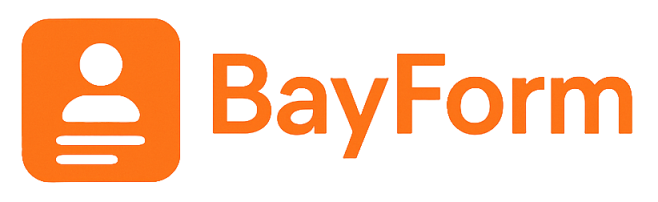
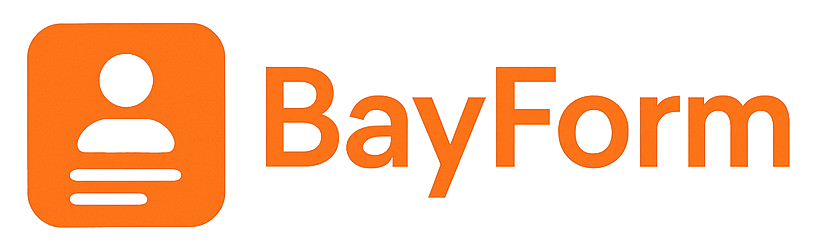
fixed auto scroll to bottom when previewing and fixed build issues

diff --git a/src/app/page.tsx b/src/app/page.tsx
@@ -1,6 +1,7 @@
 'use client';
 
 import { useState, useEffect } from 'react';
+import Image from 'next/image';
 import { ResumeData, TemplateType } from '@/types/resume';
 import { getResumes, saveResume, deleteResume } from '@/utils/storage';
 import { generatePDF, generateSimplePDF } from '@/utils/pdfGenerator';
@@ -17,23 +18,26 @@ export default function Home() {
   useEffect(() => {
     setResumes(getResumes());
   }, []);
-
   const handleSaveResume = (resume: ResumeData) => {
     saveResume(resume);
     setResumes(getResumes());
     setCurrentView('list');
     setSelectedResume(null);
+    // Scroll to top when returning to list
+    window.scrollTo({ top: 0, behavior: 'smooth' });
   };
-
   const handleEditResume = (resume: ResumeData) => {
     setSelectedResume(resume);
     setCurrentView('edit');
+    // Scroll to top when switching to edit
+    window.scrollTo({ top: 0, behavior: 'smooth' });
   };
-
   const handlePreviewResume = (resume: ResumeData) => {
     setSelectedResume(resume);
     setSelectedTemplate(resume.template);
     setCurrentView('preview');
+    // Scroll to top when switching to preview
+    window.scrollTo({ top: 0, behavior: 'smooth' });
   };
 
   const handleDeleteResume = (id: string) => {
@@ -96,9 +100,11 @@ export default function Home() {
           <div className="bg-white border-b border-slate-200 sticky top-0 z-50 shadow-sm no-print">
             <div className="max-w-7xl mx-auto px-4 py-4">
               <div className="flex flex-col lg:flex-row justify-between items-start lg:items-center gap-4">
-                <div className="flex items-center space-x-6">
-                  <button
-                    onClick={() => setCurrentView('list')}
+                <div className="flex items-center space-x-6">                  <button
+                    onClick={() => {
+                      setCurrentView('list');
+                      window.scrollTo({ top: 0, behavior: 'smooth' });
+                    }}
                     className="flex items-center text-orange-500 hover:text-orange-600 font-semibold transition-colors group"
                   >
                     <svg className="w-5 h-5 mr-2 group-hover:-translate-x-1 transition-transform" fill="none" stroke="currentColor" viewBox="0 0 24 24">
@@ -176,8 +182,7 @@ export default function Home() {
                     <span className="text-sm text-slate-600 font-medium">Resume Preview</span>
                   </div>
                 </div>
-              </div>
-              <div className="bg-white">
+              </div>              <div className="bg-white" id="resume-preview">
                 {renderTemplate(selectedResume, selectedTemplate)}
               </div>
             </div>
@@ -194,9 +199,8 @@ export default function Home() {
           <div className="absolute inset-0 bg-gradient-to-r from-orange-500/20 to-transparent"></div>
           <div className="relative max-w-7xl mx-auto px-4 py-16">
             <div className="flex flex-col lg:flex-row items-center justify-between">
-              <div className="flex-1 text-center lg:text-left mb-8 lg:mb-0">
-                <div className="flex items-center justify-center lg:justify-start mb-6">
-                  <img src="/images/header.png" alt="BayForm" className="h-16" />
+              <div className="flex-1 text-center lg:text-left mb-8 lg:mb-0">                <div className="flex items-center justify-center lg:justify-start mb-6">
+                  <Image src="/images/header.png" alt="BayForm" width={64} height={64} className="h-16 w-auto" />
                 </div>
                 <h1 className="text-4xl lg:text-6xl font-bold text-white mb-4 leading-tight">
                   Build Your Perfect
@@ -205,9 +209,11 @@ export default function Home() {
                 <p className="text-xl text-slate-300 mb-8 max-w-2xl">
                   Create professional resumes with our intuitive builder. Choose from beautiful templates and land your dream job.
                 </p>
-                <div className="flex flex-col sm:flex-row gap-4 justify-center lg:justify-start">
-                  <button
-                    onClick={() => setCurrentView('create')}
+                <div className="flex flex-col sm:flex-row gap-4 justify-center lg:justify-start">                  <button
+                    onClick={() => {
+                      setCurrentView('create');
+                      window.scrollTo({ top: 0, behavior: 'smooth' });
+                    }}
                     className="bg-orange-500 text-white px-8 py-4 rounded-xl hover:bg-orange-600 focus:outline-none focus:ring-4 focus:ring-orange-500/50 font-semibold text-lg transition-all duration-300 transform hover:scale-105 shadow-lg hover:shadow-orange-500/25"
                   >
                     Create New Resume
@@ -301,9 +307,11 @@ export default function Home() {
                 <h3 className="text-3xl font-bold text-slate-900 mb-4">Ready to Get Started?</h3>
                 <p className="text-xl text-slate-600 mb-8 max-w-2xl mx-auto">
                   Create your first professional resume in minutes. Our intuitive builder will guide you through every step.
-                </p>
-                <button
-                  onClick={() => setCurrentView('create')}
+                </p>                <button
+                  onClick={() => {
+                    setCurrentView('create');
+                    window.scrollTo({ top: 0, behavior: 'smooth' });
+                  }}
                   className="bg-gradient-to-r from-orange-500 to-orange-600 text-white px-10 py-4 rounded-xl hover:from-orange-600 hover:to-orange-700 focus:outline-none focus:ring-4 focus:ring-orange-500/50 font-semibold text-lg transition-all duration-300 transform hover:scale-105 shadow-lg hover:shadow-orange-500/25"
                 >
                   Create Your First Resume
@@ -387,9 +395,11 @@ export default function Home() {
                 </div>
                 
                 {/* Quick Actions */}
-                <div className="mt-12 text-center">
-                  <button
-                    onClick={() => setCurrentView('create')}
+                <div className="mt-12 text-center">                  <button
+                    onClick={() => {
+                      setCurrentView('create');
+                      window.scrollTo({ top: 0, behavior: 'smooth' });
+                    }}
                     className="bg-gradient-to-r from-slate-800 to-slate-900 text-white px-8 py-4 rounded-xl hover:from-slate-900 hover:to-slate-800 focus:outline-none focus:ring-4 focus:ring-slate-500/50 font-semibold text-lg transition-all duration-300 transform hover:scale-105 shadow-lg"
                   >
                     + Create Another Resume

diff --git a/src/components/ResumeForm.tsx b/src/components/ResumeForm.tsx
@@ -1,7 +1,10 @@
 import React, { useState } from 'react';
+import Image from 'next/image';
 import { ResumeData, PersonalInfo, Experience, Education, Skill, Project, AdditionalSection } from '@/types/resume';
 import { generateResumeId } from '@/utils/storage';
 import { FaChevronDown, FaChevronUp, FaPlus, FaTimes, FaUser, FaBriefcase, FaGraduationCap, FaCode, FaProjectDiagram, FaInfoCircle } from 'react-icons/fa';
+
+const DEFAULT_SKILL_CATEGORIES = ['Software', 'Technologies & Frameworks', 'General'];
 
 interface ResumeFormProps {
   initialData?: ResumeData;
@@ -124,22 +127,20 @@ export const ResumeForm: React.FC<ResumeFormProps> = ({ initialData, onSave, onC
       education: prev.education.filter(edu => edu.id !== id)
     }));
   };
-
   // --- Skill Categories ---
-  const defaultCategories = ['Software', 'Technologies & Frameworks', 'General'];
-  const [skillCategories, setSkillCategories] = useState<string[]>([...defaultCategories]);
+  const [skillCategories, setSkillCategories] = useState<string[]>([...DEFAULT_SKILL_CATEGORIES]);
 
   // Ensure all categories in resumeData.skills are present in skillCategories
   React.useEffect(() => {
     const allCategories = [
-      ...defaultCategories,
+      ...DEFAULT_SKILL_CATEGORIES,
       ...resumeData.skills.map(skill => skill.category)
     ];
     const uniqueCategories = Array.from(new Set(allCategories));
     if (uniqueCategories.length !== skillCategories.length || uniqueCategories.some(cat => !skillCategories.includes(cat))) {
       setSkillCategories(uniqueCategories);
     }
-  }, [resumeData.skills]);
+  }, [resumeData.skills, skillCategories]);
 
   const addSkillCategory = () => {
     const newCategory = prompt('Enter new skill category name:');
@@ -285,9 +286,8 @@ export const ResumeForm: React.FC<ResumeFormProps> = ({ initialData, onSave, onC
   return (
     <div className="min-h-screen bg-gray-50 py-8">
       <div className="max-w-4xl mx-auto px-4 sm:px-6 lg:px-8">        {/* Header */}
-        <div className="bg-white rounded-lg shadow-sm border border-gray-200 p-6 mb-6">
-          <div className="flex items-center space-x-4 mb-4">
-            <img src="/images/header.png" alt="BayForm" className="h-14" />
+        <div className="bg-white rounded-lg shadow-sm border border-gray-200 p-6 mb-6">          <div className="flex items-center space-x-4 mb-4">
+            <Image src="/images/header.png" alt="BayForm" width={56} height={56} className="h-14 w-auto" />
             <div>
               <p className="text-gray-600">Create your professional resume by filling out the sections below.</p>
             </div>
@@ -449,7 +449,7 @@ export const ResumeForm: React.FC<ResumeFormProps> = ({ initialData, onSave, onC
                         <h4 className="font-semibold text-gray-900 capitalize">
                           {category.replace(/\b\w/g, c => c.toUpperCase())}
                         </h4>
-                        {!defaultCategories.includes(category) && (
+                        {!DEFAULT_SKILL_CATEGORIES.includes(category) && (
                           <button
                             type="button"
                             onClick={() => removeSkillCategory(category)}
@@ -637,7 +637,7 @@ export const ResumeForm: React.FC<ResumeFormProps> = ({ initialData, onSave, onC
                   {resumeData.experience.length === 0 && (
                     <div className="text-center py-8 text-gray-500">
                       <FaBriefcase className="mx-auto text-4xl mb-4 text-gray-300" />
-                      <p>No work experience added yet. Click "Add Experience" to get started.</p>
+                      <p>No work experience added yet. Click &quot;Add Experience&quot; to get started.</p>
                     </div>
                   )}
                 </div>
@@ -762,7 +762,7 @@ export const ResumeForm: React.FC<ResumeFormProps> = ({ initialData, onSave, onC
                   {resumeData.education.length === 0 && (
                     <div className="text-center py-8 text-gray-500">
                       <FaGraduationCap className="mx-auto text-4xl mb-4 text-gray-300" />
-                      <p>No education added yet. Click "Add Education" to get started.</p>
+                      <p>No education added yet. Click &quot;Add Education&quot; to get started.</p>
                     </div>
                   )}
                 </div>
@@ -877,7 +877,7 @@ export const ResumeForm: React.FC<ResumeFormProps> = ({ initialData, onSave, onC
                   {resumeData.projects.length === 0 && (
                     <div className="text-center py-8 text-gray-500">
                       <FaProjectDiagram className="mx-auto text-4xl mb-4 text-gray-300" />
-                      <p>No projects added yet. Click "Add Project" to get started.</p>
+                      <p>No projects added yet. Click &quot;Add Project&quot; to get started.</p>
                     </div>
                   )}
                 </div>
@@ -963,7 +963,7 @@ export const ResumeForm: React.FC<ResumeFormProps> = ({ initialData, onSave, onC
                 {(!resumeData.additionalSections || resumeData.additionalSections.length === 0) && (
                   <div className="text-center py-8 text-gray-500">
                     <FaInfoCircle className="mx-auto text-4xl mb-4 text-gray-300" />
-                    <p>No additional sections added yet. Click "Add Section" to get started.</p>
+                    <p>No additional sections added yet. Click &quot;Add Section&quot; to get started.</p>
                   </div>
                 )}
               </div>

diff --git a/next.config.js b/next.config.js
@@ -2,9 +2,6 @@
 const nextConfig = {
   reactStrictMode: true,
   swcMinify: true,
-  experimental: {
-    appDir: true,
-  },
 }
 
 module.exports = nextConfig
